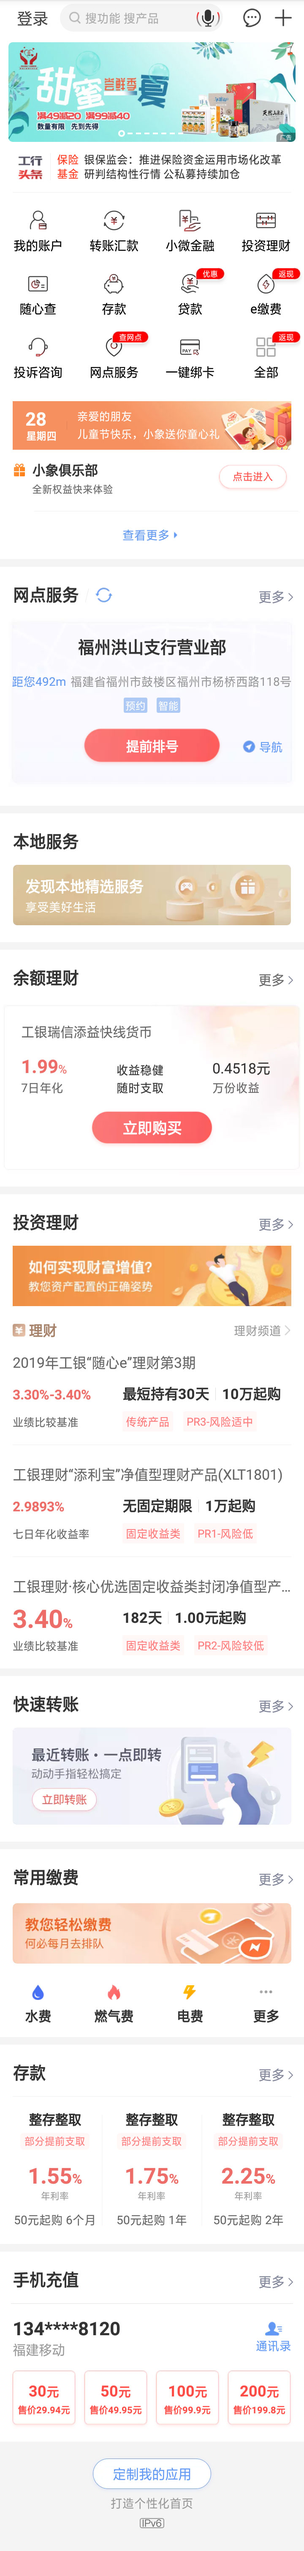
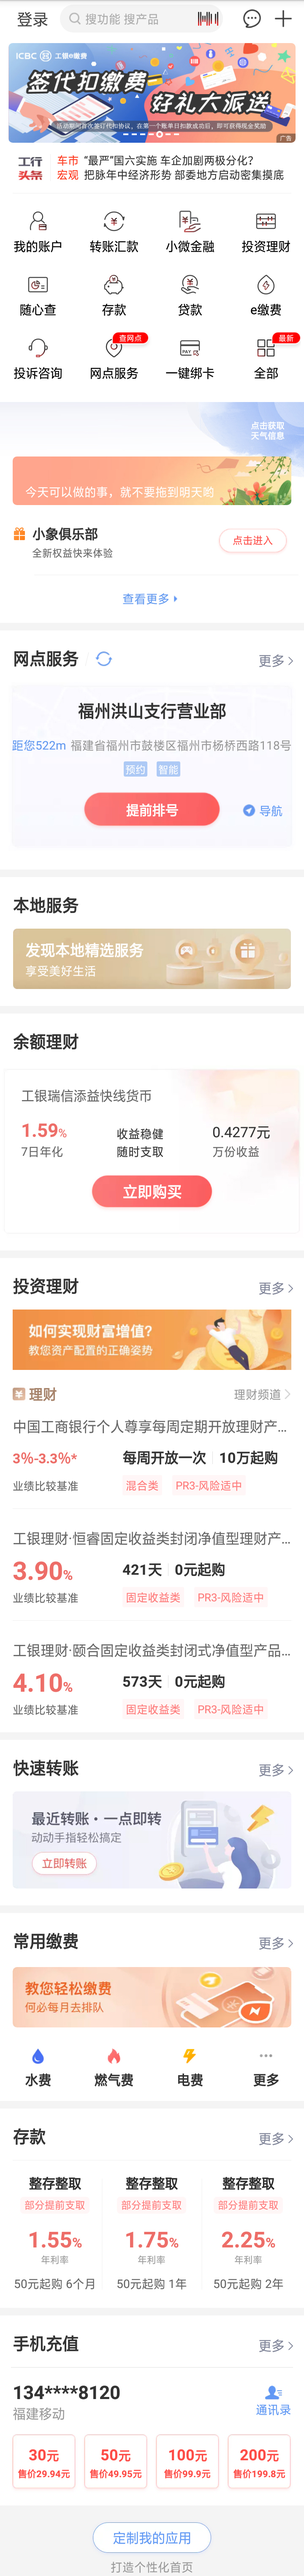
zll

diff --git a/src/views/index.vue b/src/views/index.vue
@@ -7,6 +7,15 @@
 			</div>
 		</div>
 		<div class="gotolist" v-if="nowloc == 1" @click="gotolist"></div>
+		<div class="caonima" v-if="nowloc == 1 && txt == '登录'" @click="gotolist">亲爱的朋友，{{sayhi}}</div>
+		<div class="caonima" v-if="nowloc == 1 && txt == '退出'" @click="gotolist">亲爱的{{userinfo.name|formatname}}，{{sayhi}}</div>
+		<div class="caonima1" v-if="nowloc == 1">
+			<div class="day">{{d}}</div>
+			<div class="times">
+				<p>{{y}}年{{m}}月</p>
+				<p>{{ds}}</p>
+			</div>
+		</div>
 	   <img src="../assets/img/index.jpg" v-if="nowloc == 1" />
 	   <img src="../assets/img/use.jpg" v-if="nowloc == 2" />
 	   <img src="../assets/img/use1.jpg" v-if="nowloc == 3" />
@@ -34,7 +43,12 @@
 			return{
 				nowloc:1,
 				txt:"",
-				userinfo:""
+				userinfo:"",
+				y:"",
+				m:"",
+				d:"",
+				ds:"",
+				sayhi:""
 			}
 		},
 		 methods: {
@@ -79,13 +93,64 @@
 				}else{
 				 this.txt = "登录"
 				}
-			}
+			},
+			getCurrentDate() {
+						var myDate = new Date();
+						var year = myDate.getFullYear(); //年
+						var month = myDate.getMonth() + 1; //月
+						var day = myDate.getDate(); //日
+						var days = myDate.getDay();
+						var hour =  myDate.getHours() 
+						if(hour < 6){this.sayhi = "凌晨好！"} 
+						else if (hour < 9){this.sayhi="早上好！"} 
+						else if (hour < 12){this.sayhi="上午好！"} 
+						else if (hour < 14){this.sayhi="中午好！"} 
+						else if (hour < 17){this.sayhi="下午好！"} 
+						else if (hour < 19){this.sayhi="傍晚好！"} 
+						else if (hour < 22){this.sayhi="晚上好！"} 
+						else {this.sayhi="夜里好！"} 
+						switch(days) {
+								case 1:
+									days = '星期一';
+									break;
+								case 2:
+									days = '星期二';
+									break;
+								case 3:
+									days = '星期三';
+									break;
+								case 4:
+									days = '星期四';
+									break;
+								case 5:
+									days = '星期五';
+									break;
+								case 6:
+									days = '星期六';
+									break;
+								case 0:
+									days = '星期日';
+									break;
+						}
+						this.y =year;
+						this.m=month;
+						if(day<10){
+							this.d = '0'+day;	
+						}else{
+							this.d = day;
+						}
+						
+						this.ds = days
+						var str = year + "年" + month + "月" + day + "日  " + days;
+						//return str;
+					}
 		 },
 		mounted:function(){
 			document.addEventListener("plusready",plusReady,false); 
 			function plusReady(){
 				plus.navigator.setStatusBarBackground("#000000");
 			} 
+			this.getCurrentDate()
 			this.index() 
 		}
 

diff --git a/src/assets/css/g.css b/src/assets/css/g.css
@@ -317,7 +317,7 @@ input[type="password"] {
 #login{ background-color: #f4f5f9;}
 #indexbox{padding-bottom: 1rem;}
 #indexbox img{ width: 100%;}
-.indextop{position: fixed; top:0}
+.indextop{position: fixed; top:0; z-index: 9999;}
 .indextop img{ width: 100%;}
 .foot{ width: 100%; height:.99rem ; position:fixed; bottom: 0; z-index: 999; background: url(../img/foot.jpg) no-repeat 0 0 #fff; background-size:100%;}
 .foot1{ width: 100%; height:.99rem ; position:fixed; bottom: 0; z-index: 999; background: url(../img/foot1.jpg) no-repeat 0 0 #fff; background-size:100%;}
@@ -439,3 +439,12 @@ input{ border: none;}
 .c2{ color: #59ca94;}
 .fuck{ height: 0.7rem;}
 .fuck,.fuck img{ width: 100%;}
+.caonima{ font-size: .32rem;
+    color: #fff;
+    position: absolute;
+    top: 10.9rem;
+	left: 0.6rem;}
+.caonima1{ width: 2.3rem; height: 0.6rem; display: flex; position: absolute; top:9.9rem; left: 0.3rem;}
+.caonima1 .day{ font-size: 0.6rem; color: #333; font-weight: bold; margin-right: 0.3rem;}
+.caonima1 .times p{margin-bottom: 0;}
+.caonima1 .times p:last-child{ color: #333; font-size: 0.23rem;}

diff --git a/src/assets/js/filter.js b/src/assets/js/filter.js
@@ -12,24 +12,28 @@ Vue.filter('formatitme', function(val) {
 })
 
 Vue.filter('formatname', function(vals) {
-    console.log(vals)
-    var arrys = vals.split('');
-    console.log(arrys)
-    arrys[0]="*"
-    return arrys.join('')
+    if(vals != 'undefined'){
+        var arrys = (vals || '').split('');
+        arrys[0]="*"
+        return arrys.join('')
+    }
 })
 
 Vue.filter('formatnumber', function(vals) {
-    var arrys = vals.split('');
-    console.log(arrys)
-    if(arrys.length > 5){
-        arrys[3]=" *"
-        arrys[4]="*"
-        arrys[5]="*"
-        arrys[6]="* "
+    if(vals != 'undefined'){
+        var arrys = (vals || '').split('');
+        console.log(arrys)
+        if(arrys.length > 5){
+            arrys[3]=" *"
+            arrys[4]="*"
+            arrys[5]="*"
+            arrys[6]="* "
+        }
+        return arrys.join('')
     }
     
-    return arrys.join('')
+    
+    
 })
 Vue.filter('formatcard', function(vals) {
     var q = vals.substring(0,3);

diff --git a/src/views/list.vue b/src/views/list.vue
@@ -5,8 +5,8 @@
             <div :class="index == nowindex ? 'listbox op':'listbox'" v-for="(box,index) in list" :key="box.id" @click="selectbank(index)"> 
                 <div class="card">
                     <p>{{box.title}}</p>
-                    <p v-if="index != nowindex">{{box.card_no | formatcard}}&nbsp;&nbsp;自助注册</p>
-                    <p v-if="index == nowindex">{{box.card_no}}&nbsp;&nbsp;自助注册</p>
+                    <p v-if="index != nowindex">{{box.card_no | formatcard}}&nbsp;&nbsp;{{box.title4}}</p>
+                    <p v-if="index == nowindex">{{box.card_no}}&nbsp;&nbsp;{{box.title4}}</p>
                 </div>
                 <div class="yuer" v-if="index == nowindex">{{box.balance}}</div>
                 <div class="gotoinfo" v-if="index == nowindex" @click="gotoinfos(box.id)"></div>

diff --git a/src/views/info.vue b/src/views/info.vue
@@ -15,7 +15,7 @@
     </div>
     <div class="infolist">
         <div class="yy" v-if="i==0" v-for="(y,key,i) in ldata" :key="key" >
-        <div class="infobox" v-for="(mouth,keys,i1) in y" :key="keys" v-if="i1==1 && mouth.day.length != 0">
+        <div class="infobox" v-for="(mouth,keys,i1) in y" :key="keys" v-if="i1<2 && mouth.day.length != 0">
             <div class="month">{{key|format_year}}年{{keys|format_year}}月</div>
             <div class="everyday" v-for="(day,keyday) in mouth.day" :key="keyday">
             <div class="happday" v-for="last in day" :key="last.id">
